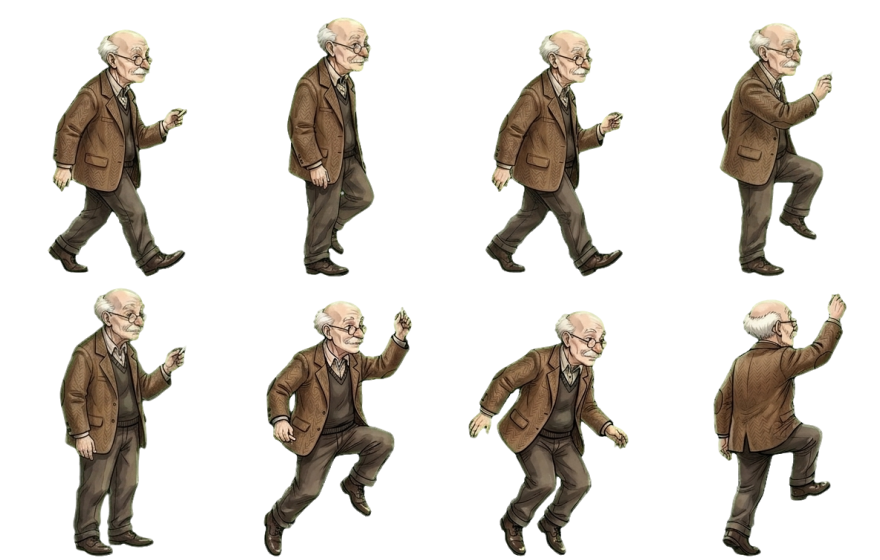
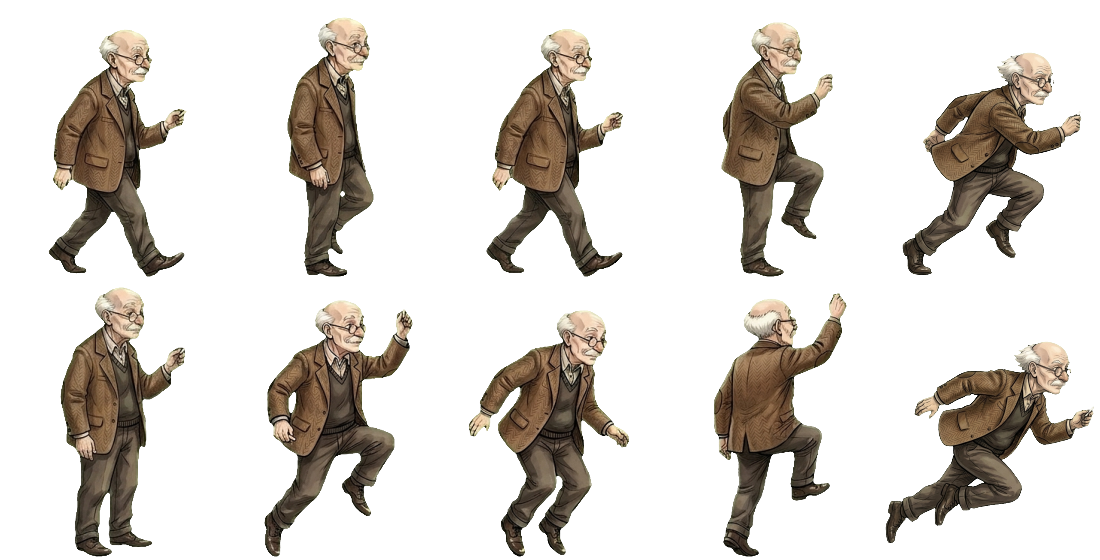
Dash movement added, edges of characters polished more

diff --git a/src/main.js b/src/main.js
@@ -4,7 +4,7 @@ import { LEVELS } from './levels.js';
 import { S, canComplete, isComplete, isNegative } from './mathEngine.js';
 import {
   makeBackground, drawPlatform, drawFloor, drawToken, drawCharacter, drawBookStack, drawDoor, chalkFont, mathFont, rng,
-  drawLadder, drawSponge, drawPickup, drawDustPuff, drawKey, drawSparkle, drawEraserIcon,
+  drawLadder, drawSponge, drawPickup, drawDustPuff, drawKey, drawSparkle, drawEraserIcon, drawDashLine, drawDashAfterimage,
 } from './draw.js';
 import { loadAssets, images } from './assets.js';
 import { SCHOOLS, schoolOfLevel } from './schools.js';
@@ -204,7 +204,7 @@ class Game {
     this.player = {
       x: this.level.spawn, y: FLOOR_Y - PLAYER_H, vx: 0, vy: 0, facing: 1, onGround: true,
       coyote: 0, jbuf: 0, drop: 0, walkT: 0, gdir: 1, flipT: 0, climbing: null,
-      squash: 0, stepIdx: 0,
+      squash: 0, stepIdx: 0, dashT: 0, dashCd: 0, dashDir: 1, airDash: true, dashTrail: [], dashTrailCd: 0,
     };
     this.tray = [];
     this.dead = false;
@@ -352,8 +352,47 @@ class Game {
   startClimb(ladder) {
     const p = this.player;
     p.climbing = ladder;
+    p.dashT = 0;
+    p.airDash = true;
     p.x = ladder[0] - PLAYER_W / 2;
     p.vx = 0; p.vy = 0; p.onGround = false;
+  }
+
+  emitDashLines(p, count = 3) {
+    const cx = p.x + PLAYER_W / 2 - p.dashDir * 12;
+    for (let i = 0; i < count; i++) {
+      const y = p.y + 8 + Math.random() * (PLAYER_H - 12);
+      const len = 18 + Math.random() * 26;
+      const col = Math.random() < 0.35 ? C.gold : C.chalk;
+      this.effects.push({ kind: 'dashline', x: cx, y, len, dir: -p.dashDir, color: col, t: 0, dur: 0.18 + Math.random() * 0.12 });
+    }
+  }
+
+  tryDash() {
+    const p = this.player;
+    if (p.dashT > 0 || p.dashCd > 0) return;
+    if (!p.onGround && !p.climbing && !p.airDash) return;
+    const dir = (this.held('ArrowRight', 'KeyD') ? 1 : 0) - (this.held('ArrowLeft', 'KeyA') ? 1 : 0);
+    p.dashDir = dir || p.facing;
+    p.facing = p.dashDir;
+    if (!p.onGround && !p.climbing) p.airDash = false;
+    p.climbing = null;
+    p.dashT = K.DASH_TIME;
+    p.dashCd = K.DASH_COOLDOWN;
+    p.vy = 0;
+    p.squash = 0.14;
+    p.dashTrailCd = 0;
+    const fx = p.x + PLAYER_W / 2 - p.dashDir * 12;
+    const fy = p.gdir > 0 ? p.y + PLAYER_H - 10 : p.y + 10;
+    this.puff(fx, fy + (p.gdir > 0 ? 10 : 0), 0.72);
+    for (let i = 0; i < 8; i++) {
+      this.particles.push({
+        x: fx, y: p.y + 10 + Math.random() * (PLAYER_H - 14),
+        vx: -p.dashDir * (70 + Math.random() * 140), vy: (Math.random() - 0.5) * 45,
+        life: 0.25 + Math.random() * 0.25, color: Math.random() < 0.35 ? C.gold : C.chalk,
+      });
+    }
+    this.emitDashLines(p, 4);
   }
 
   onKey(code) {
@@ -396,6 +435,8 @@ class Game {
         const ladder = p.gdir > 0 && !p.climbing && p.onGround && this.ladderAt(feet, 4);
         if (ladder && feet < ladder[2] - 4) this.startClimb(ladder);
         else if (p.onGround) p.drop = 0.22;
+      } else if (code === 'KeyX') {
+        this.tryDash();
       } else if (code === 'KeyF') this.tryPick();
       else if (code === 'KeyE' || code === 'Backspace') this.useEraser();
       else if (code === 'KeyR') { this.resetBoard(); this.say('Reset – but the clock keeps ticking!', C.gold); }
@@ -481,11 +522,53 @@ class Game {
     const p = this.player;
     p.squash *= Math.exp(-14 * dt);
     if (Math.abs(p.squash) < 0.002) p.squash = 0;
+    p.dashCd = Math.max(0, p.dashCd - dt);
+    for (const tr of p.dashTrail) tr.t += dt;
+    p.dashTrail = p.dashTrail.filter((tr) => tr.t < tr.dur);
     if (p.flipT > 0 && (p.flipT -= dt) <= 0) { p.gdir = 1; p.onGround = false; p.coyote = 0; }
     p.coyote -= dt; p.jbuf -= dt; p.drop -= dt;
     if (p.climbing) { this.updateClimb(dt); if (p.climbing || p.onGround) return; }
 
     const g = p.gdir;
+    if (p.dashT > 0) {
+      // Horizontal dash burst (works on ground and mid-air; gravity pauses briefly)
+      p.dashT = Math.max(0, p.dashT - dt);
+      p.dashTrailCd -= dt;
+      if (p.dashTrailCd <= 0) {
+        p.dashTrailCd = 0.028;
+        p.dashTrail.push({
+          x: p.x, y: p.y, facing: p.facing, gdir: g,
+          dashK: 1 - p.dashT / K.DASH_TIME, t: 0, dur: 0.22,
+        });
+        this.emitDashLines(p, 2);
+        this.particles.push({
+          x: p.x + PLAYER_W / 2 - p.dashDir * 10,
+          y: p.y + 12 + Math.random() * (PLAYER_H - 16),
+          vx: -p.dashDir * (60 + Math.random() * 90), vy: (Math.random() - 0.5) * 35,
+          life: 0.22 + Math.random() * 0.18, color: Math.random() < 0.3 ? C.gold : C.chalk,
+        });
+      }
+      // Allow jumping out of a grounded dash cleanly
+      if (p.jbuf > 0 && p.coyote > 0) {
+        p.dashT = 0;
+        p.vy = -K.JUMP_V * g; p.jbuf = 0; p.coyote = 0;
+        p.squash = -0.12;
+        this.dust(p.x + PLAYER_W / 2, g > 0 ? p.y + PLAYER_H : p.y, 5);
+      } else {
+        p.vx = p.dashDir * K.DASH_SPEED;
+        p.vy = 0;
+        p.x = Math.max(16, Math.min(W - 16 - PLAYER_W, p.x + p.vx * dt));
+        // Keep grounded state accurate if dashing off a ledge
+        if (p.onGround) {
+          const overlaps = (x, w) => p.x + PLAYER_W > x + 3 && p.x < x + w - 3;
+          const onFloor = g > 0 ? Math.abs(p.y + PLAYER_H - FLOOR_Y) < 2 : Math.abs(p.y - CEIL_Y) < 2;
+          const onPlat = this.level.platforms.some(([x, y, w]) => overlaps(x, w)
+            && (g > 0 ? Math.abs(p.y + PLAYER_H - y) < 2 : Math.abs(p.y - (y + PLATFORM_H + 2)) < 2));
+          if (!onFloor && !onPlat) p.onGround = false;
+        }
+        return;
+      }
+    }
     const dir = (this.held('ArrowRight', 'KeyD') ? 1 : 0) - (this.held('ArrowLeft', 'KeyA') ? 1 : 0);
     p.vx = dir * K.SPEED;
     if (dir) {
@@ -533,6 +616,7 @@ class Game {
         if (sponge) {
           p.y = sponge.y - SPONGE_H - PLAYER_H;
           p.vy = -K.BOUNCE_V;
+          p.airDash = true;
           p.squash = -0.15;
           sponge.squash = 1;
           this.dust(sponge.x, sponge.y - SPONGE_H, 10, '#f3d36b');
@@ -556,6 +640,7 @@ class Game {
     }
     if (p.onGround) {
       p.coyote = K.COYOTE_TIME;
+      p.airDash = true;
       if (!wasGround) {
         p.squash = Math.min(0.16, 0.05 + impact / 4500);
         const fx = p.x + PLAYER_W / 2, fy = g > 0 ? p.y + PLAYER_H : p.y;
@@ -663,6 +748,7 @@ class Game {
     for (const e of this.effects) {
       const k = e.t / e.dur;
       if (e.kind === 'puff') drawDustPuff(g, e.x, e.y, k, e.size);
+      else if (e.kind === 'dashline') drawDashLine(g, e.x, e.y, e.len, e.dir, k, e.color);
       else drawSparkle(g, e.x, e.y, 2 + 4 * Math.sin(k * Math.PI), 1 - k);
     }
   }
@@ -697,9 +783,11 @@ class Game {
 
     const p = this.player;
     const fade = exiting ? Math.max(0, Math.min(1, 1 - (this.exitT - 1.15) / 0.5)) : 1;
+    if (!exiting) for (const tr of p.dashTrail) drawDashAfterimage(g, this.character, tr);
     drawCharacter(g, this.character, p.x, p.y, {
       facing: p.facing, walkT: p.walkT, walking: p.vx !== 0 || (exiting && this.exitT > 0.9),
       airborne: !p.onGround && !p.climbing && !exiting, gdir: p.gdir, climbing: !!p.climbing,
+      dashing: p.dashT > 0 && !exiting, dashK: p.dashT > 0 ? 1 - p.dashT / K.DASH_TIME : 0,
       alpha: fade, vy: p.vy, squash: p.squash, t: this.t,
     });
     if (this.hasKey && !exiting) {

diff --git a/src/draw.js b/src/draw.js
@@ -331,6 +331,36 @@ export function drawToken(g, text, x, y, alpha, { highlight = false, negative = 
   g.restore();
 }
 
+/** Crisp tapered chalk speed-line drawn behind a dashing character (progress 0..1). */
+export function drawDashLine(g, x, y, len, dir, progress, color = C.chalk) {
+  const a = Math.max(0, 1 - progress);
+  g.save();
+  g.globalAlpha = a * 0.72;
+  g.strokeStyle = color;
+  g.lineWidth = Math.max(1, (1 - progress * 0.6) * 2.4);
+  g.lineCap = 'round';
+  const shift = dir * progress * 24;
+  g.beginPath();
+  g.moveTo(x + shift, y);
+  g.lineTo(x + shift + dir * len * (1 - progress * 0.35), y);
+  g.stroke();
+  g.restore();
+}
+
+/** Fading ghost silhouette behind the character while dashing. */
+export function drawDashAfterimage(g, who, ghost) {
+  const k = ghost.t / ghost.dur;
+  const alpha = Math.max(0, (1 - k) * 0.42);
+  if (alpha <= 0.01) return;
+  g.save();
+  g.filter = 'brightness(1.22) sepia(0.28)';
+  drawCharacter(g, who, ghost.x, ghost.y, {
+    facing: ghost.facing, gdir: ghost.gdir, dashing: true, dashK: ghost.dashK,
+    airborne: false, walking: false, alpha, noShadow: true,
+  });
+  g.restore();
+}
+
 /**
  * Elderly professor in side profile, ~15° forward lean.
  * (x, y) = top-left of the hitbox; facing = ±1; gdir = ±1 (−1 draws him upside down).
@@ -339,7 +369,7 @@ export function drawCharacter(g, who, x, y, opts = {}) {
   const sheet = images[`char.${who}_sheet`];
   const img = images[`char.${who}`];
   const jump = images[`char.${who}_jump`];
-  const usePortrait = opts.portrait || ((opts.scale ?? 1) > 1.2 && !opts.walking && !opts.airborne && !opts.climbing);
+  const usePortrait = opts.portrait || ((opts.scale ?? 1) > 1.2 && !opts.walking && !opts.airborne && !opts.climbing && !opts.dashing);
   if (usePortrait && img) drawSprite(g, img, x, y, opts);
   else if (sheet) drawSheetSprite(g, sheet, x, y, opts);
   else if (jump && opts.airborne && !opts.climbing) drawJumpSprite(g, jump, x, y, opts);
@@ -348,21 +378,31 @@ export function drawCharacter(g, who, x, y, opts = {}) {
 }
 
 /**
- * Animated 4×2 character sprite sheet (all poses face RIGHT, feet aligned to cell bottom):
- *   Row 0: walk cycle (0: stride A, 1: passing A, 2: stride B, 3: passing B)
- *   Row 1: 0: idle, 1: jump rising, 2: jump falling, 3: ladder climb
+ * Animated 5×2 (or legacy 4×2) character sprite sheet (all poses face RIGHT, feet aligned to cell bottom):
+ *   Row 0: walk cycle (0: stride A, 1: passing A, 2: stride B, 3: passing B), 4: dash launch
+ *   Row 1: 0: idle, 1: jump rising, 2: jump falling, 3: ladder climb, 4: dash glide
  */
 function drawSheetSprite(g, sheet, x, y, {
   facing = 1, walkT = 0, walking = false, airborne = false, gdir = 1,
   scale = 1, alpha = 1, climbing = false, vy = 0, squash = 0, t = 0,
+  dashing = false, dashK = 0, noShadow = false,
 } = {}) {
-  const COLS = 4, ROWS = 2;
+  const ROWS = 2;
+  const COLS = Math.max(4, Math.round((sheet.width / sheet.height) * (280 / 220) * ROWS));
   const cw = sheet.width / COLS, ch = sheet.height / ROWS;
   let col = 0, row = 1; // default: idle
   let flipX = facing;
   let bob = 0, tilt = 0;
 
-  if (climbing) {
+  if (dashing) {
+    if (COLS >= 5) {
+      col = 4;
+      row = dashK < 0.32 ? 0 : 1; // Col 4 Row 0 = dash launch, Row 1 = dash glide
+    } else {
+      col = 1; row = 1;
+    }
+    tilt = 0.05;
+  } else if (climbing) {
     col = 3; row = 1;
     // Alternate hand/foot climb side as the professor climbs rungs
     flipX = Math.floor(walkT * 7) % 2 === 0 ? 1 : -1;
@@ -389,16 +429,17 @@ function drawSheetSprite(g, sheet, x, y, {
   if (gdir > 0) g.translate(cx, y + PLAYER_H); else { g.translate(cx, y); g.scale(1, -1); }
 
   // Soft contact shadow beneath feet when grounded
-  if (!airborne && !climbing) {
+  if (!noShadow && !airborne && !climbing && !dashing) {
     const sw = (walking ? 0.34 : 0.31) * w;
     g.fillStyle = 'rgba(0,0,0,0.32)';
     g.beginPath(); g.ellipse(0, 0, sw, 2.8 * scale, 0, 0, Math.PI * 2); g.fill();
   }
 
   // Squash & stretch (positive squash = landing compress, negative = takeoff stretch) + idle breathing
-  const breath = !walking && !airborne && !climbing ? Math.sin(t * 2.4) * 0.012 : 0;
-  const sx = 1 + squash - breath * 0.5;
-  const sy = 1 - squash + breath;
+  const breath = !walking && !airborne && !climbing && !dashing ? Math.sin(t * 2.4) * 0.012 : 0;
+  const dashStretch = dashing ? 0.07 : 0;
+  const sx = 1 + squash + dashStretch - breath * 0.5;
+  const sy = 1 - squash - dashStretch * 0.6 + breath;
 
   g.translate(0, bob);
   g.scale(flipX * sx, sy);

diff --git a/src/screens.js b/src/screens.js
@@ -358,8 +358,8 @@ const MECHANICS = [
 ];
 // matches the real key bindings in main.js
 const CONTROLS = [
-  ['← →', 'Move'], ['↑ ↓', 'Climb ladders'], ['Space', 'Jump (↑ too)'], ['F', 'Pick up'],
-  ['E', 'Eraser'], ['R', 'Reset'], ['↓', 'Drop down'], ['Esc', 'Leave level'],
+  ['← →', 'Move'], ['↑ ↓', 'Climb ladders'], ['Space', 'Jump (↑ too)'], ['X', 'Dash (air too)'],
+  ['F', 'Pick up'], ['E', 'Eraser'], ['R', 'Reset'], ['↓', 'Drop down'], ['Esc', 'Leave level'],
 ];
 
 function keyCap(g, x, y, label) {
@@ -424,10 +424,10 @@ export function renderRules(game, g) {
   });
 
   // --- Controls (bottom row)
-  g.font = chalkFont(16, true); g.fillStyle = '#ffe7a6'; g.fillText('Controls', 590, 348);
+  g.font = chalkFont(16, true); g.fillStyle = '#ffe7a6'; g.fillText('Controls', 590, 344);
   CONTROLS.forEach(([k, label], i) => {
     const col = i % 2, row = Math.floor(i / 2);
-    const x = 590 + col * 168, y = 372 + row * 22;
+    const x = 590 + col * 168, y = 366 + row * 21;
     const w = keyCap(g, x, y, k);
     g.font = chalkFont(12); g.fillStyle = '#d9e6dd'; g.fillText(label, x + w + 6, y);
   });

diff --git a/src/assets.js b/src/assets.js
@@ -4,7 +4,7 @@
 //
 // Conventions
 //   characters – full body, side view, facing LEFT, transparent background, feet touching the bottom edge (portraits/fallback)
-//   char sheets – 4×2 grid, facing RIGHT, feet bottom-aligned: row 0 = 4 walk frames; row 1 = idle, jump up, jump fall, climb
+//   char sheets – 5×2 grid, facing RIGHT, feet bottom-aligned: row 0 = 4 walk frames + dash launch; row 1 = idle, jump up, jump fall, climb, dash glide
 //   desk       – whole desk incl. legs, slight top-down view; the top ~12 % of its height is the table top (see drawPlatform)
 //   shelf      – wall shelf plank + brackets; top edge = shelf surface
 //   books      – a small stack of books, bottom edge = where it rests

diff --git a/src/constants.js b/src/constants.js
@@ -20,6 +20,9 @@ export const PICKUP_ON_TOUCH = false; // true = collect by touching (AGENTS.md),
 
 export const BOUNCE_V = 900;        // yellow sponge launch speed (apex ≈ 245 px)
 export const CLIMB_SPEED = 150;     // ladder climbing speed
+export const DASH_SPEED = 580;      // horizontal burst speed during a dash (px/s)
+export const DASH_TIME = 0.16;      // duration of a dash burst (seconds)
+export const DASH_COOLDOWN = 0.65;  // cooldown between dashes (seconds)
 export const CHALK_BONUS_S = 5;     // seconds gained from a chalk pickup
 export const HARD_LANDING_V = 640;  // landing faster than this puffs up a chalk-dust cloud
 export const EXIT_TIME = 1.8;       // length of the key + door-opening animation

diff --git a/AGENTS.md b/AGENTS.md
@@ -17,7 +17,7 @@
   - Screen flow: Character Select (`charselect`) → Campus Map (`map`) → School Hallway (`hallway`) → Chalkboard Rules (`rules`, timer paused until Start) → Playing (`play`) → Results (`results`) / Time Up (`timeup`).
   - Progress, character choice, and per-level stats/stars are persisted in `localStorage` (`qed.progress.v1` in `src/progress.js`).
 - **Gameplay Mechanics & Controls:**
-  - **Movement:** `←`/`→` move, `Space`/`↑` variable-height jump (with coyote time and jump buffer), `↑`/`↓` climb ladders, `↓` drop through shelves.
+  - **Movement:** `←`/`→` move, `Space`/`↑` variable-height jump (with coyote time and jump buffer), `X` horizontal dash (also works mid-air once per jump; pauses gravity briefly with an afterimage + chalk-streak trail), `↑`/`↓` climb ladders, `↓` drop through shelves.
   - **Collecting symbols:** Press `F` next to a floating token to append it to the equation tray (controlled by `PICKUP_ON_TOUCH = false` in `src/constants.js`).
   - **Eraser & Restart:** Press `E` to spend 1 **Chalk Eraser** charge to undo the last collected token and respawn it in the room (players start with `0` charges and collect erasers as room pickups). Press `R` to restart the level (timer keeps running); `Esc` exits to the hallway.
   - **Real-time Solvability Check:** After each token is collected, `canComplete()` in `src/mathEngine.js` checks whether the current prefix can still reach `target` using any ordering of the remaining tokens in the room:
@@ -70,8 +70,8 @@ Use vanilla HTML5 Canvas, CSS3, and ES6 Modules (`<script type="module">`) with 
 - **Stable Level IDs:** Never rename existing level `id` values in `src/levels.js` / `src/schools.js`, as player progress in `localStorage` is keyed by level `id`.
 - **Sprite & Animation Conventions (`src/assets.js`, `src/draw.js`):**
   - Standing portrait sprites (`professor.png`, `professorka.png`) face **LEFT** with feet touching the bottom edge (used on menu screens such as character select/hallway/rules, and as fallback). Legacy `*_jump.png` files are unused now that jump poses live in the sheets.
-  - Gameplay character sprite sheets (`professor_sheet.png`, `professorka_sheet.png`) are `880×560` `4×2` grids (`220×280` cells) facing **RIGHT** with feet bottom-aligned and center-of-mass horizontally aligned: Row 0 = 4-frame walk cycle; Row 1 = idle, jump rising, jump falling, ladder climb.
-  - `drawCharacter()` renders portraits on menu screens (`opts.portrait` or `scale > 1.2` while idle) and `drawSheetSprite()` during gameplay (4-frame walk cycle + footstep dust, idle breathing, rise/fall jump frames selected by `vy * gdir`, alternating-flip ladder climb, and visual-only `p.squash` takeoff/landing squash-and-stretch). Keep animation juice strictly visual—never alter hitbox or physics constants for animation.
+  - Gameplay character sprite sheets (`professor_sheet.png`, `professorka_sheet.png`) are `1100×560` `5×2` grids (`220×280` cells) facing **RIGHT** with feet bottom-aligned and center-of-mass horizontally aligned: Row 0 = 4-frame walk cycle + dash launch (Col 4); Row 1 = idle, jump rising, jump falling, ladder climb, dash glide (Col 4).
+  - `drawCharacter()` renders portraits on menu screens (`opts.portrait` or `scale > 1.2` while idle) and `drawSheetSprite()` during gameplay (4-frame walk cycle + footstep dust, idle breathing, rise/fall jump frames selected by `vy * gdir`, 2-frame dash + afterimage/speed-line trail, alternating-flip ladder climb, and visual-only `p.squash` takeoff/landing squash-and-stretch). Keep animation juice strictly visual—never alter hitbox or physics constants for animation.
   - Prefer generating new art on a flat chroma-key green (`#00FF00`) background (no overlap with white hair/chalk/skin) and always run edge color decontamination (`tools/sprite-tool.mjs` or `tools/cutout.py --chroma`) so no pale or green fringe shows on the dark `#1b2622` chalkboard.
   - Always keep procedural fallbacks working in `src/draw.js` / `src/ui.js` when adding or changing visual elements.
 - **Menu Interactivity:** Menu screens in `src/screens.js` are immediate-mode rendered each frame and register clickable regions via `game.hit(rect, onClick, onDouble)` and `game.button(...)`.

diff --git a/README.md b/README.md
@@ -44,6 +44,7 @@ no build step, no server – it is published with GitHub Pages straight from the
 |---|---|
 | ← → | move |
 | Space (or ↑) | jump – hold for a higher jump |
+| X | dash – quick horizontal burst (works mid-air too, once per jump) |
 | ↑ ↓ at a ladder | climb |
 | ↓ | drop down through a shelf |
 | F | pick up the symbol you are standing next to |
